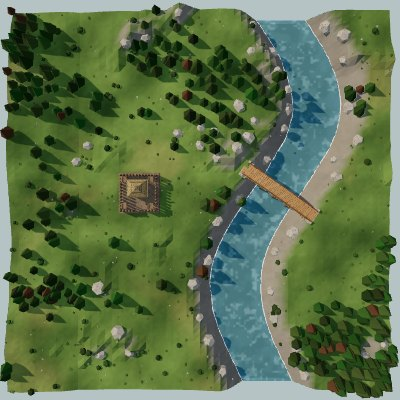
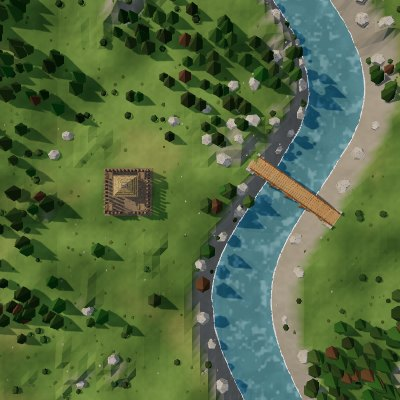
Map previews zoomed in so no background shows past the map's edges
Claude-Session: https://claude.ai/code/session_01AE8sRRsVdpH9ETfQvtppox

diff --git a/tools/render/maps.js b/tools/render/maps.js
@@ -4,7 +4,7 @@ const path = require('path'), fs = require('fs');
 const { openGame } = require('./serve');
 const ROOT = path.resolve(__dirname, '../..');
 const arg = (k, d) => { const i = process.argv.indexOf(k); return i > 0 ? process.argv[i + 1] : d; };
-const VIEW = { meadow: [28, 0, 28, 0, 1.56, 75], isle: [28, 0, 28, 0, 1.56, 75], pass: [28, 4, 28, 0, 1.56, 80] };    // straight down over the whole map    // target x, y, z, yaw, pitch, dist
+const VIEW = { meadow: [28, 0, 28, 0, 1.56, 64], isle: [28, 0, 28, 0, 1.56, 64], pass: [28, 4, 28, 0, 1.56, 64] };    // straight down over the whole map    // target x, y, z, yaw, pitch, dist
 (async () => {
   const { page, close, errors } = await openGame('index.html?debug&map=meadow', { three: arg('--three'), viewport: { width: 400, height: 400 } });
   for (const m of ['meadow', 'isle', 'pass']) {

diff --git a/CLAUDE.md b/CLAUDE.md
@@ -54,7 +54,7 @@ The whole game is currently one self-contained file: `index.html` (~165 KB, thre
 - Doors: every tier-1 building's door, every house door and every barracks door is the lumber camp's size, `DOOR_W` .55 × `DOOR_H` 1.0 (bottom on the slab/plinth top); buildings were raised to fit (hovel, cottage, townhouse, lumber shack (4 log courses), stone pit shed, muster hut, barracks hall, farm T1 hut, farm T3 barn, which got a door). The palisade fort's hall door is .72 × 1.16 (windows above it at y 1.98); the stone keep's own door (inside the courtyard) is the standard door, `DOOR_W / k` wide so it stays .55 m after `CASTLE_K`. The hovel has no fence posts beside it.
 
 ## Maps
-- Three maps, picked on a dark title screen ("Medieval Town Defense", "Choose map"; `#mapPick` covers everything, visible from the first paint so the game never shows behind it) on entry and on Restart / Play again (`#mapPick`, `showMapPick`; each card shows a picture of the real map, `maps/meadow.jpg` / `maps/isle.jpg` / `maps/pass.jpg`, rendered by `node tools/render/maps.js [--three …]` (re-run after changing a map): square 400 px pictures straight down over the whole map (`VIEW`, the pass from a little higher for its mountains), shown square on the cards; the game waits paused underneath; last choice in `localStorage['mtd-map']`, highlighted). `?map=meadow|isle|pass` (and `?debug` / `?gallery`) skip the picker; a stored choice that isn't a known map is ignored. `MAP` is read by `genHeight`, `genTrees`, `genRocks`, `canStand`; `KX/KZ` (castle site) are set per map in `startGame` (Meadow 19,27 / cells 8–10,12–14; River isle 27,27 / cells 12–14,12–14; Mountain pass 27,21 / cells 12–14,9–11).
+- Three maps, picked on a dark title screen ("Medieval Town Defense", "Choose map"; `#mapPick` covers everything, visible from the first paint so the game never shows behind it) on entry and on Restart / Play again (`#mapPick`, `showMapPick`; each card shows a picture of the real map, `maps/meadow.jpg` / `maps/isle.jpg` / `maps/pass.jpg`, rendered by `node tools/render/maps.js [--three …]` (re-run after changing a map): square 400 px pictures straight down over the map (`VIEW`, zoomed in just enough that no background shows past its edges), shown square on the cards; the game waits paused underneath; last choice in `localStorage['mtd-map']`, highlighted). `?map=meadow|isle|pass` (and `?debug` / `?gallery`) skip the picker; a stored choice that isn't a known map is ignored. `MAP` is read by `genHeight`, `genTrees`, `genRocks`, `canStand`; `KX/KZ` (castle site) are set per map in `startGame` (Meadow 19,27 / cells 8–10,12–14; River isle 27,27 / cells 12–14,12–14; Mountain pass 27,21 / cells 12–14,9–11).
 - **Meadow**: the original map: a winding river on the east side (`meadowRiverX`), crossed by one fixed bridge square across it on the castle's row (`bridgeRays`). Rocks: a stony patch between the castle and the river north of the bridge (8) plus up to 48 scattered (≈510 stone). Nobody wades any river (`canStand` modes 1 and 2 need h ≥ .3), so raiders spawning east of it must cross the bridge.
 - **River isle**: the castle on a flat island inside a wobbly ring of river (`ISLE.r` 16.6 m, `isleR(angle)`), hills beyond the far bank. Two more rivers flow out of the ring to the map's edge, north-east and south-west (`isleOutN`/`isleOutS`, carved in `genHeight` outside the ring only), so the far bank is split in two. Three fixed, free timber footbridges at `ISLE_BRIDGES` (−90°, 30°, 150°), each radial (square across the ring). Bridges at any angle (`genBridges` from `bridgeRays`: march along a ray; each end runs on past the water until it lands on flat ground at the bank top (`flat`: height > .5, slope < .6 on the centre line and 1.3 m either side, up to 6 m), so the deck is level with the ground beside its ends; trestles wherever the deck is over 1 m above the ground; a bridge is `x0, z0, dx, dz, L`, deck `DECK_W` 1.9; `bridgeT`/`bridgeW`/`onDeck`; `bridgeCell[n]` = index + 1 for every cell the deck touches, `b.ends` its end cells). `deckY(b, t)` arches the deck (`BRIDGE_RISE` .45); units stand at `walkY` (the deck inside its strip, else the ground) everywhere they are drawn; `cellPass` lets everyone path over bridge cells, `canStand` only on the deck strip; A* steps on and off a bridge only through its end cells; `routePoints` turns a run of bridge cells into: a point on the ground 0.8 m in front of the entry end, the deck's end, its far end, the ground beyond (on-deck starts/targets keep `bridgeWaypoint` centre-line points); a unit standing on the ground in a cell a deck touches counts as off the bridge (`deckAt`, in `findPath` and `clearLine`), else it was routed up the deck's side and stood stuck on the bank; raiders can't wade (`canStand` mode 2 needs h ≥ .3). Nothing can be built or pathed on a bridge ("Bridge"). Model: `makeBridge` (planks across the arch, two log stringers, trestles where it crosses water, log railings, grey stone landings), `buildBridges` after `syncTerrain`. Woods on the island (clear round the castle and along the way to each bridge), forest beyond the river; stone only beyond the river: three outcrops between the bridges (`ISLE_ROCKS`, `isleRockSite`, 7 rocks each) plus 16 scattered rocks, so masons either live by the castle and walk via a bridge or build out by the rocks, exposed.
 - **Mountain pass** (`MAP` 'pass'): no water. The castle on a plateau in the middle of the top half (`PASS.plate` 9.5 m round it, height 6); the open ground rings it and narrows into a pass (about 23–27 m wide, its sides unalike) coming up from the bottom edge (x ≈ 14–39), falling to about 1.5 m there and rolling a little, inside an uneven line of mountains (`PASS_EDGE` polyline, closed below the map's bottom edge; `passAt` gives the depth inside it, wobbled by noise); rough mountains beyond (8–18 m, ridged noise, snow over 16 m via `SNOW_C` in `recolor`) behind 3 m cliffs (`passHeight`). `passOpen(x, z)` (depth > .3) is the only ground anyone may stand on, path through or build on (`canStand`, `cellPass`, `evaluate` "Too steep"), so every raider comes up the pass from the bottom edge, where they spawn (`edgePoint`). Trees: a forest ring round the castle except toward the pass (south), trees along the foot of the mountains, clumps in the open, and unreachable `deco` pines on the mountains (`treeFree` skips them). Stone is plentiful: outcrops at `PASS_ROCKS` (seven, 8 rocks each) plus 14 scattered. Rules (`MAP_RULES.pass`, applied by `mapRules()` in `startGame`): one 600 s day, then night 1 = 70 raiders (36 spear, 18 sword, 14 archer, 2 captains, hp ×1.2), a 150 s day, night 2 = 100 (46/28/22 + 4 captains, hp ×1.45); raiders spawn every `SPAWN_GAP` .5 s; same starting resources. The camera starts looking up the pass (`yaw` 0). Only a raider's bigger parts (bounding radius ≥ .16) cast shadows (`spawnEnemy`), as up to 100 can be on screen.
